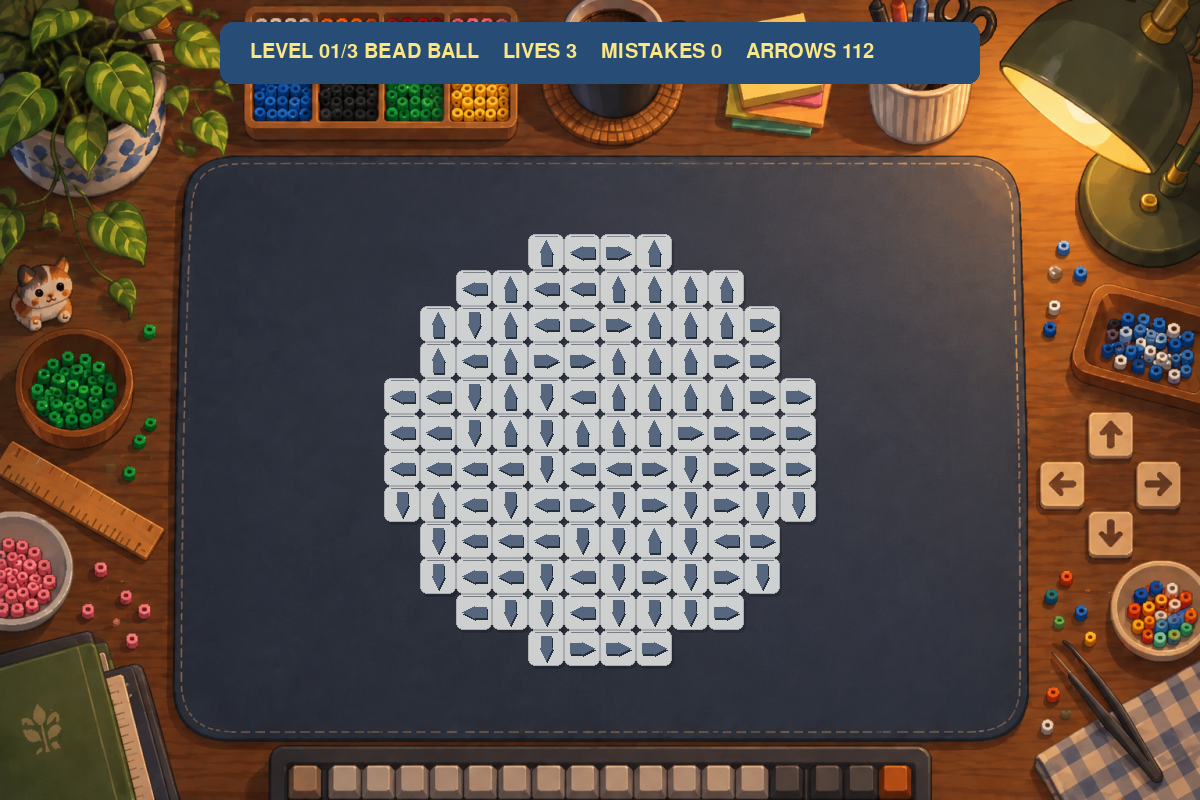
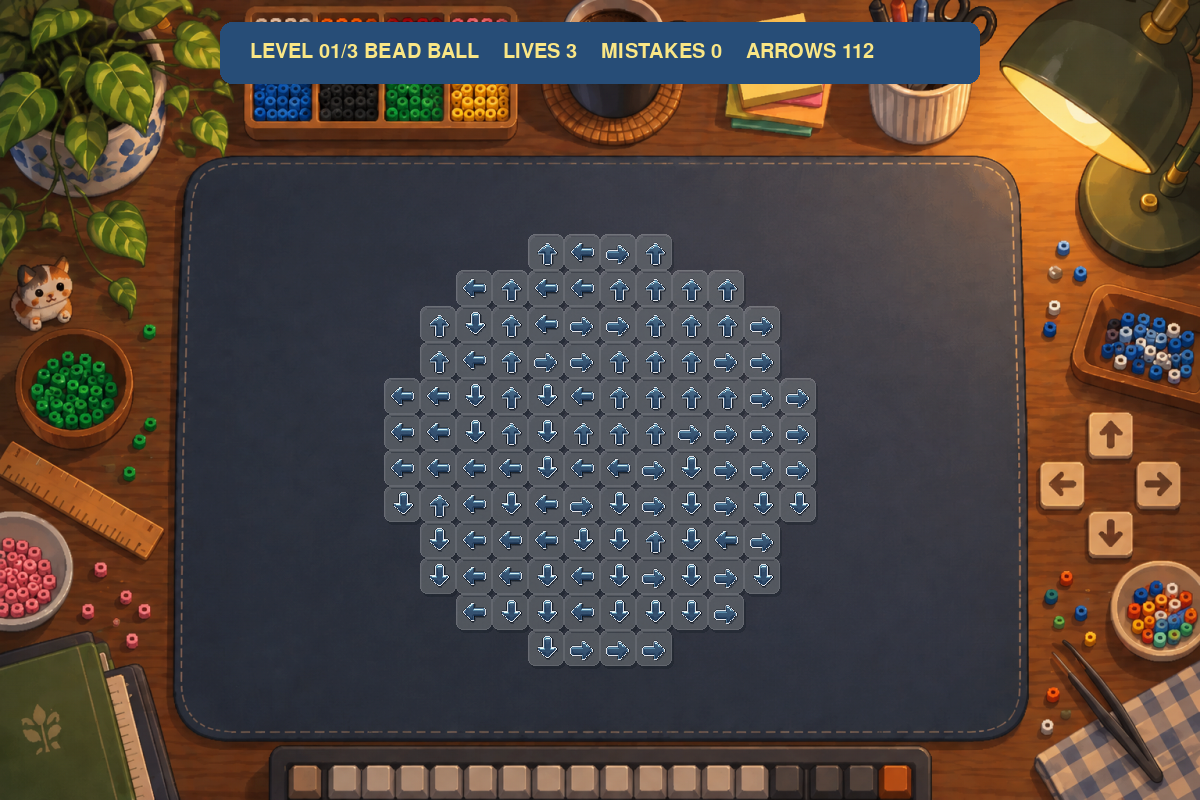
feat: use pixel arrow sprites in gameplay

Changed region(s): [[0.3083, 0.2812, 0.6783, 0.8438]]

diff --git a/src/ui.py b/src/ui.py
@@ -18,6 +18,7 @@ ERROR_TILE = (238, 112, 112)
 ERROR_ARROW = (128, 38, 38)
 HOVER_COLOR = (102, 213, 255)
 MENU_BACKGROUND_PATH = Path(__file__).resolve().parent.parent / "assets" / "menu-background.png"
+ARROW_SPRITES_PATH = Path(__file__).resolve().parent.parent / "assets" / "arrow-sprites.png"
 MENU_PANEL_COLOR = (75, 48, 31)
 # The dark desk mat in the supplied work-table illustration. Puzzle cells stay
 # inside it so the board feels like a bead-art project on the work surface.
@@ -87,7 +88,25 @@ class UI:
             # onto headless test surfaces before a display mode exists.
             pygame.image.load(MENU_BACKGROUND_PATH), WINDOW_SIZE
         )
+        self.arrow_sprites = self._load_arrow_sprites()
         self._refresh_layout()
+
+    @staticmethod
+    def _load_arrow_sprites() -> dict[str, pygame.Surface]:
+        """Split the supplied 2×2 pixel-art arrow sheet into four icons."""
+        sheet = pygame.image.load(ARROW_SPRITES_PATH)
+        half_width = sheet.get_width() // 2
+        half_height = sheet.get_height() // 2
+        source_rects = {
+            "U": pygame.Rect(0, 0, half_width, half_height),
+            "R": pygame.Rect(half_width, 0, half_width, half_height),
+            "D": pygame.Rect(0, half_height, half_width, half_height),
+            "L": pygame.Rect(half_width, half_height, half_width, half_height),
+        }
+        return {
+            direction: pygame.transform.scale(sheet.subsurface(rect).copy(), (40, 40))
+            for direction, rect in source_rects.items()
+        }
 
     def cell_at(self, position: tuple[int, int]) -> tuple[int, int] | None:
         self._refresh_layout()
@@ -262,9 +281,12 @@ class UI:
         self.screen.blit(shadow, rect.move(2, 3).topleft)
 
         tile = pygame.Surface(rect.size, pygame.SRCALPHA)
-        alpha = 156 if is_hovered else (218 if is_arrow else 196)
+        # The card is purposefully quiet: direction is communicated by the
+        # supplied pixel arrow, while its backing only preserves hit-area and
+        # hover readability.
+        alpha = 102 if is_hovered else (58 if is_arrow else 172)
         border = HOVER_COLOR if is_hovered else ((178, 70, 70) if is_error else (255, 255, 255))
-        border_alpha = 235 if is_hovered else (155 if is_arrow else 92)
+        border_alpha = 235 if is_hovered else (72 if is_arrow else 92)
         pygame.draw.rect(
             tile,
             (*fill, alpha),
@@ -280,7 +302,7 @@ class UI:
         )
         pygame.draw.line(
             tile,
-            (255, 255, 255, 98 if is_arrow else 62),
+            (255, 255, 255, 28 if is_arrow else 62),
             (radius, 2),
             (rect.width - radius, 2),
             width=1,
@@ -293,6 +315,14 @@ class UI:
         direction: str,
         color: tuple[int, int, int],
     ) -> None:
+        if color == ARROW_COLOR and direction in self.arrow_sprites:
+            icon_size = max(18, rect.width - 4)
+            icon = self.arrow_sprites[direction]
+            if icon.get_width() != icon_size:
+                icon = pygame.transform.scale(icon, (icon_size, icon_size))
+            self.screen.blit(icon, icon.get_rect(center=rect.center))
+            return
+
         center = rect.center
         arm = self.layout.cell_size // 3
         shaft = max(4, self.layout.cell_size // 7)

diff --git a/tests/test_ui.py b/tests/test_ui.py
@@ -6,6 +6,7 @@ from src.game import Game
 from src.levels import create_tree_board
 from src.ui import (
     BACKGROUND,
+    ARROW_SPRITES_PATH,
     COLOR_MAP,
     MENU_BACKGROUND_PATH,
     MENU_PANEL_COLOR,
@@ -71,6 +72,16 @@ def test_start_screen_draws_a_distinct_title_panel_and_start_button():
 
 def test_main_menu_background_is_packaged_with_the_project():
     assert MENU_BACKGROUND_PATH.is_file()
+
+
+def test_pixel_arrow_sprite_sheet_is_packaged_and_split_by_direction():
+    pygame.font.init()
+    screen = pygame.Surface(WINDOW_SIZE)
+    ui = UI(screen, Game(create_tree_board))
+
+    assert ARROW_SPRITES_PATH.is_file()
+    assert set(ui.arrow_sprites) == {"U", "D", "L", "R"}
+    assert all(sprite.get_size() == (40, 40) for sprite in ui.arrow_sprites.values())
 
 
 def test_ui_scales_the_16_by_16_first_level_to_fit_the_play_area():

diff --git a/README.md b/README.md
@@ -21,7 +21,7 @@
 - 通关后进入下一关，失败后重开当前关，最终通关后可重新开始整局；
 - 无外部商业游戏代码、美术、音效或关卡资源。
 
-开始界面和游戏界面共用提交者提供的工作桌图片资源，文件位于 `assets/menu-background.png`；箭头棋盘会始终居中放在桌垫内。第一关 BEAD BALL 根据提交者提供的 `.px` 拼豆工程图案转换为固定网格。其余界面与关卡图案均由 Pygame 基础图形绘制。
+开始界面和游戏界面共用提交者提供的工作桌图片资源，文件位于 `assets/menu-background.png`；箭头棋盘会始终居中放在桌垫内。像素风四向箭头使用提交者提供的图片资源 `assets/arrow-sprites.png`，程序按四个象限裁切，保留其透明通道。第一关 BEAD BALL 根据提交者提供的 `.px` 拼豆工程图案转换为固定网格。其余界面与关卡图案均由 Pygame 基础图形绘制。
 
 ## 开发环境
 
